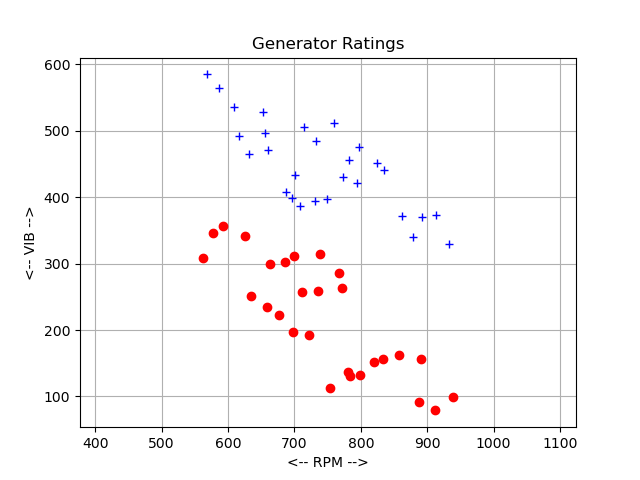
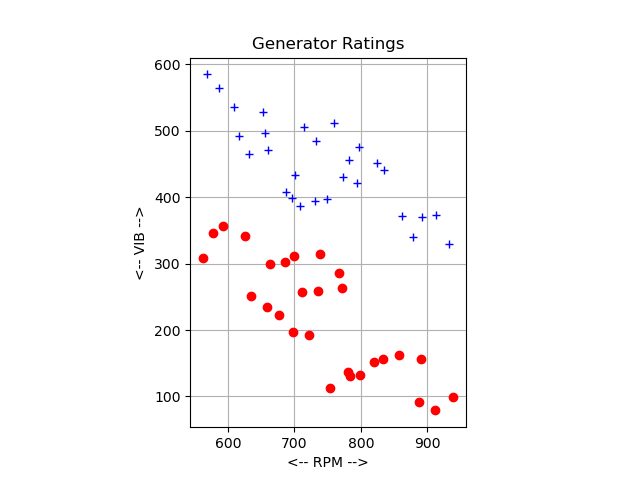
perceptron

diff --git a/perceptron/perceptron.py b/perceptron/perceptron.py
@@ -1,9 +1,21 @@
 #! /usr/bin/env python3
 #
+
 import numpy as np
 import matplotlib.pyplot as plt
 import platform
 import time
+import sys
+import os
+import math
+from mpl_toolkits.mplot3d import Axes3D
+from sys import exit
+
+sys.path.append(os.path.join("../"))
+from base import plot2d, plotocc
+from timestamp.timestamp import timestamp
+
+obj = plot2d()
 
 
 def perceptron():
@@ -33,9 +45,10 @@ def perceptron():
     print('  Rating is 0 for bad, 1 for good.')
     print('  Use the perceptron algorithm to determine a')
     print('  classifier f(rpm,vibration) -> {0, 1}')
-#
-#  Read the data file.
-#
+
+    #
+    #  Read the data file.
+    #
     print('')
     print('  Generator Ratings')
     data = np.loadtxt('generators.txt')
@@ -69,14 +82,13 @@ def perceptron():
           (bad_rpm_mean, bad_vib_mean))
     print('  %g <= VIB <= %g' % (vib_min, vib_max))
 
-    plt.plot(rpm[good], vib[good], 'b+', rpm[bad], vib[bad], 'ro')
-    plt.xlabel('<-- RPM -->')
-    plt.ylabel('<-- VIB -->')
-    plt.title('Generator Ratings')
-    plt.grid(True)
-    plt.axis('equal')
     filename = 'perceptron_data.png'
-    plt.savefig(filename)
+    obj.new_2Dfig()
+    obj.axs.plot(rpm[good], vib[good], 'b+', rpm[bad], vib[bad], 'ro')
+    obj.axs.set_xlabel('<-- RPM -->')
+    obj.axs.set_ylabel('<-- VIB -->')
+    obj.axs.set_title('Generator Ratings')
+    obj.SavePng(filename)
     print('  Graphics saved as "%s"' % (filename))
 
     #  Part 2.
@@ -103,6 +115,7 @@ def perceptron():
             e = e + (grade[i] != f)
             w = w + alpha * np.dot(x[i, :], (grade[i] - f))
         w = w / np.linalg.norm(w)
+
     if (e == 0):
         print('  All training data classified on step %d' % (step))
     else:
@@ -147,47 +160,18 @@ def perceptron():
         px = np.append(px, rv)
         py = np.append(py, vv)
 
-    plt.plot(r[good], v[good], 'b+', r[bad], v[bad], 'ro')
-    plt.plot(px, py, 'k-', linewidth=3)
-    plt.xlabel('<-- RPM -->')
-    plt.ylabel('<-- VIB -->')
-    plt.title('Generator Ratings Classifier')
-    plt.grid(True)
-    plt.axis('equal')
     filename = 'perceptron_classifier.png'
-    plt.savefig(filename)
-    plt.show(block=False)
+    obj.new_2Dfig()
+    obj.axs.plot(r[good], v[good], 'b+', r[bad], v[bad], 'ro')
+    obj.axs.plot(px, py, 'k-', linewidth=3)
+    obj.axs.set_xlabel('<-- RPM -->')
+    obj.axs.set_ylabel('<-- VIB -->')
+    obj.axs.set_title('Generator Ratings Classifier')
+    obj.SavePng(filename)
     print('  Graphics saved as "%s"' % (filename))
     print('')
     print('perceptron')
     print('  Normal end of execution.')
-
-
-def timestamp():
-
-    # *****************************************************************************80
-    #
-    # timestamp prints the date as a timestamp.
-    #
-    #  Licensing:
-    #
-    #    This code is distributed under the GNU LGPL license.
-    #
-    #  Modified:
-    #
-    #    06 April 2013
-    #
-    #  Author:
-    #
-    #    John Burkardt
-    #
-    #  Parameters:
-    #
-    #    None
-    #
-
-    t = time.time()
-    print(time.ctime(t))
 
 
 if (__name__ == '__main__'):
